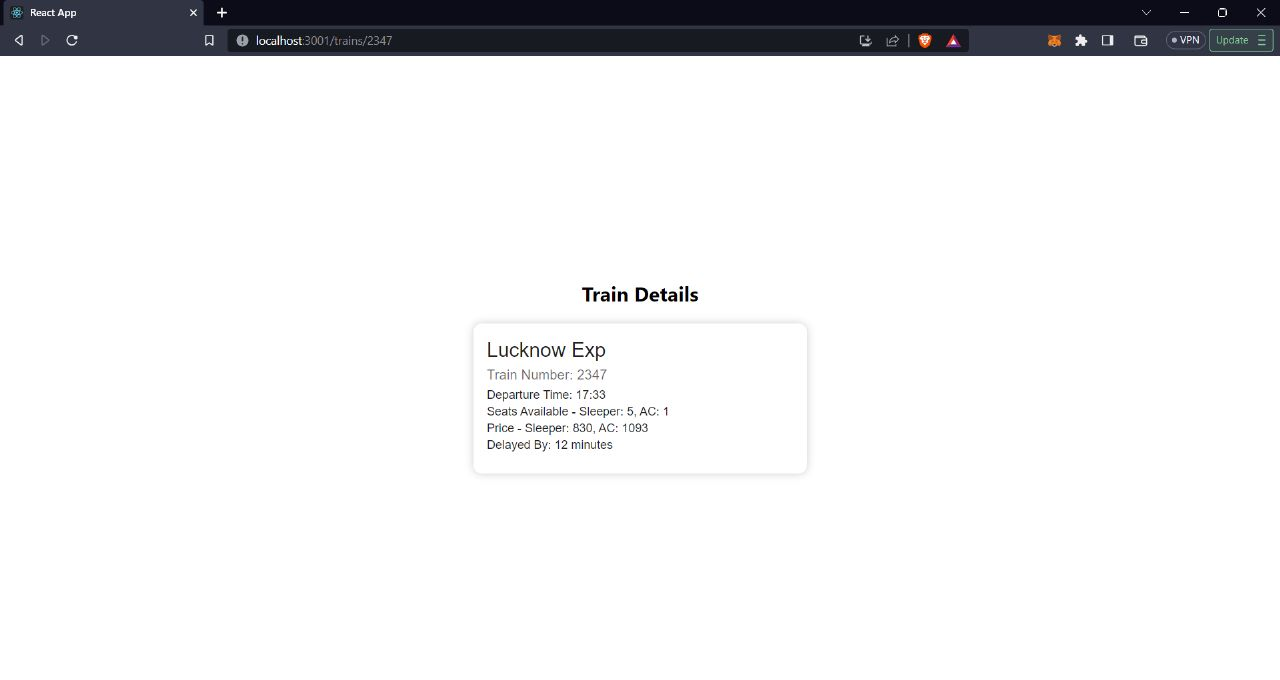
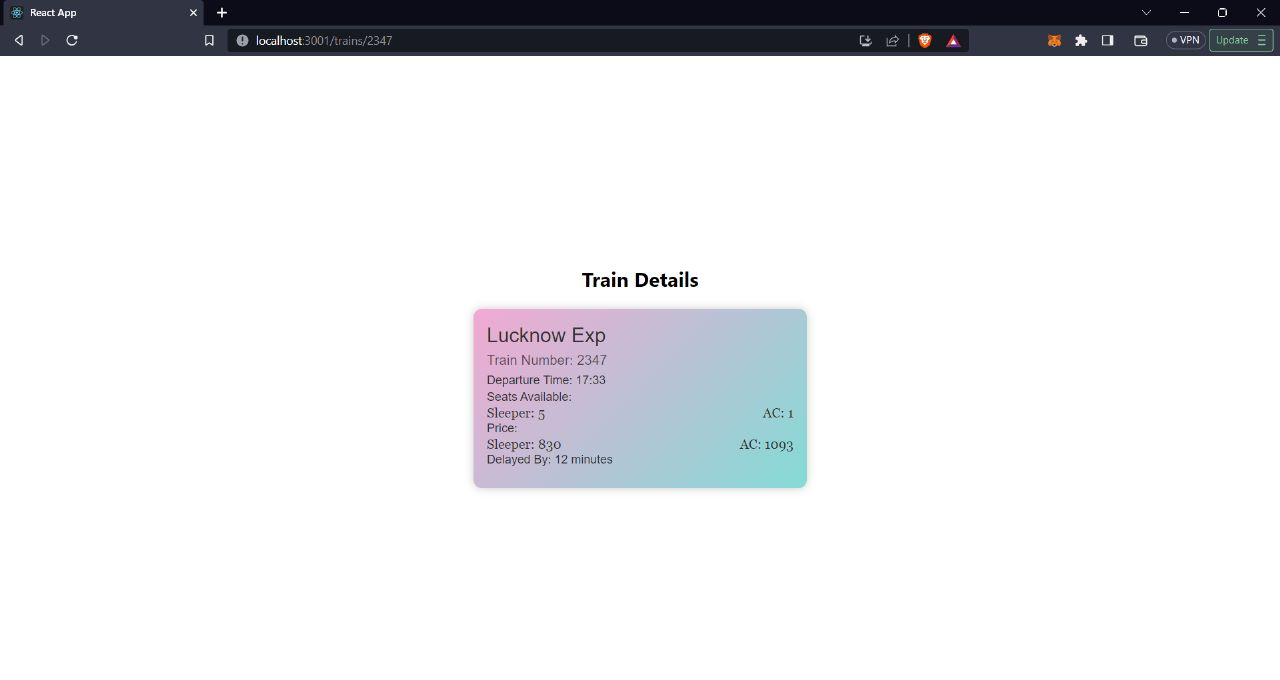
updated card color

Changed region(s): [[0.3438, 0.4015, 0.6562, 0.7412]]

diff --git a/client/src/components/singleTrain.js b/client/src/components/singleTrain.js
@@ -27,13 +27,28 @@ function SingleTrainPage() {
     return (
         <div style={{ display: 'flex',flexDirection: 'column',justifyContent: 'center',alignItems: 'center',  height: '100vh' }}>
             <h2>Train Details</h2>
-            <Card style={{ width: '400px', borderRadius: '10px', boxShadow: '0px 0px 10px rgba(0, 0, 0, 0.2)' }}>
+            <Card style={{
+                width: '400px',
+                borderRadius: '10px',
+                boxShadow: '0px 0px 10px rgba(0, 0, 0, 0.2)',
+                background: 'linear-gradient(135deg, #f2a9d3, #83dbd7)',
+                fontFamily: 'Georgia, serif',
+                color: '#333'
+            }}>
                 <CardContent>
                     <Typography variant="h5" component="div">{train.trainName}</Typography>
                     <Typography variant="subtitle1" color="textSecondary">Train Number: {train.trainNumber}</Typography>
                     <Typography variant="body2">Departure Time: {train.departureTime.Hours}:{train.departureTime.Minutes}</Typography>
-                    <Typography variant="body2">Seats Available - Sleeper: {train.seatsAvailable.sleeper}, AC: {train.seatsAvailable.AC}</Typography>
-                    <Typography variant="body2">Price - Sleeper: {train.price.sleeper}, AC: {train.price.AC}</Typography>
+                    <Typography variant="body2">Seats Available:</Typography>
+                    <div style={{ display: 'flex', justifyContent: 'space-between' }}>
+                        <div>Sleeper: {train.seatsAvailable.sleeper}</div>
+                        <div>AC: {train.seatsAvailable.AC}</div>
+                    </div>
+                    <Typography variant="body2">Price:</Typography>
+                    <div style={{ display: 'flex', justifyContent: 'space-between' }}>
+                        <div>Sleeper: {train.price.sleeper}</div>
+                        <div>AC: {train.price.AC}</div>
+                    </div>
                     <Typography variant="body2">Delayed By: {train.delayedBy} minutes</Typography>
                 </CardContent>
             </Card>
